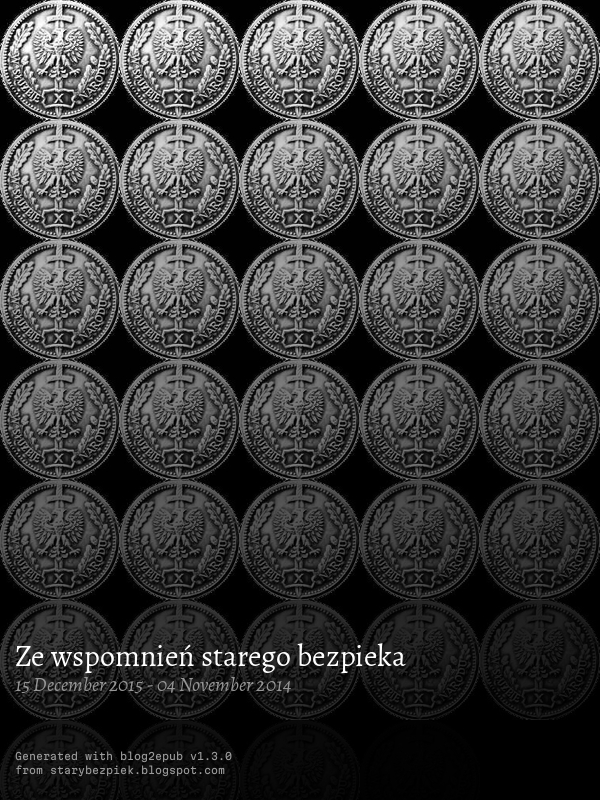
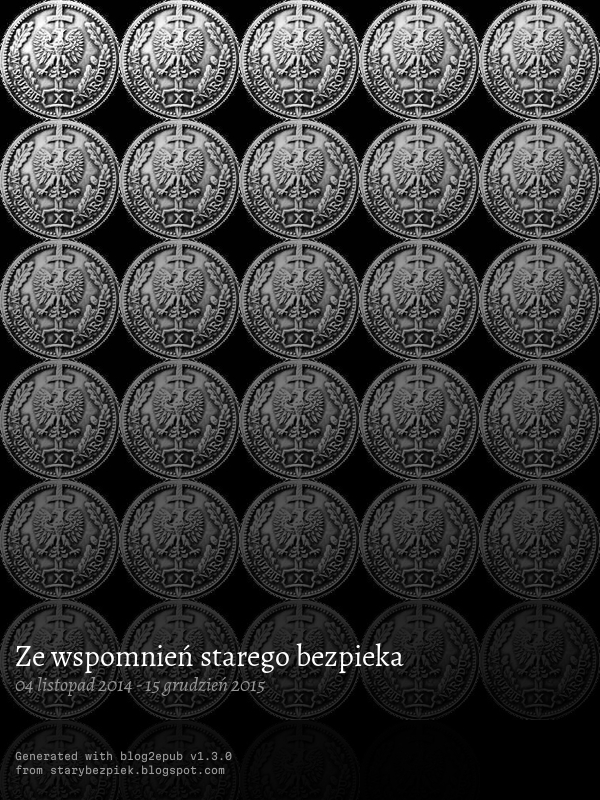
Ignore downloads and dates order fix

Changed region(s): [[0.03, 0.8125, 0.69, 0.875]]

diff --git a/blog2epub/crawlers/crawler.py b/blog2epub/crawlers/crawler.py
@@ -35,6 +35,8 @@ from blog2epub.models.book import BookModel, DirModel, ArticleModel, ImageModel
 
 
 class AbstractCrawler(ABC):
+    ignore_downloads = []
+
     @abstractmethod
     def crawl(self):
         pass
@@ -56,6 +58,8 @@ class Crawler(AbstractCrawler):
     )
     images_regex = r'<table[^>]*><tbody>[\s]*<tr><td[^>]*><a href="([^"]*)"[^>]*><img[^>]*></a></td></tr>[\s]*<tr><td class="tr-caption" style="[^"]*">([^<]*)'
     articles_regex = r"<h3 class=\'post-title entry-title\' itemprop=\'name\'>[\s]*<a href=\'([^\']*)\'>([^>^<]*)</a>[\s]*</h3>"
+
+    ignore_downloads = []
 
     def __init__(
         self,
@@ -396,6 +400,7 @@ class Downloader:
         self.force_download = crawler.force_download
         self.images_size = crawler.images_size
         self.images_quality = crawler.images_quality
+        self.ignore_downloads = crawler.ignore_downloads
         self.cookies = CookieJar()
         self.session = requests.session()
         self.headers = {}
@@ -424,7 +429,15 @@ class Downloader:
     def get_filepath(self, url):
         return os.path.join(self.dirs.html, self.get_urlhash(url) + ".html")
 
+    def _is_url_in_ignored(self, url) -> bool:
+        for search_rule in self.ignore_downloads:
+            if re.match(search_rule, url):
+                return True
+        return False
+
     def file_download(self, url: str, filepath: str) -> Optional[str]:
+        if self._is_url_in_ignored(url):
+            return None
         self.dirs.prepare_directories()
         try:
             response = self.session.get(url, cookies=self.cookies, headers=self.headers)
@@ -437,7 +450,10 @@ class Downloader:
         return contents
 
     def image_download(self, url: str, filepath: str) -> bool:
+        if self._is_url_in_ignored(url):
+            return None
         self.dirs.prepare_directories()
+        print(f"POBIERANIE: {url}")
         try:
             response = self.session.get(url, cookies=self.cookies, headers=self.headers)
         except requests.exceptions.ConnectionError:

diff --git a/blog2epub/common/book.py b/blog2epub/common/book.py
@@ -106,10 +106,10 @@ class Book:
         if self.end is None:
             return self.start.strftime("%d %B %Y")
         if self.start.strftime("%Y.%m") == self.end.strftime("%Y.%m"):
-            return self.end.strftime("%d") + "-" + self.start.strftime("%d %B %Y")
+            return self.start.strftime("%d") + "-" + self.end.strftime("%d %B %Y")
         if self.start.strftime("%Y.%m") == self.end.strftime("%Y.%m"):
-            return self.end.strftime("%d %B") + " - " + self.start.strftime("%d %B %Y")
-        return self.end.strftime("%d %B %Y") + " - " + self.start.strftime("%d %B %Y")
+            return self.start.strftime("%d %B") + " - " + self.end.strftime("%d %B %Y")
+        return self.start.strftime("%d %B %Y") + " - " + self.end.strftime("%d %B %Y")
 
     def update_file_name(self, file_name: Optional[str] = None):
         if file_name is None:
@@ -118,7 +118,7 @@ class Book:
                 start_date = self.start.strftime("%Y.%m.%d")
                 if self.end and self.start != self.end:
                     end_date = self.end.strftime("%Y.%m.%d")
-                    file_name = file_name + "_" + end_date + "-" + start_date
+                    file_name = file_name + "_" + start_date + "-" + end_date
                 else:
                     file_name = file_name + "_" + start_date
             file_name += ".epub"
@@ -238,7 +238,6 @@ class Book:
         for article in articles:
             article_dates.append(article.date)
         article_dates.sort()
-        print(article_dates)
         self.start = article_dates[0]
         self.end = article_dates[-1]
 

diff --git a/blog2epub/crawlers/blogspot.py b/blog2epub/crawlers/blogspot.py
@@ -11,3 +11,12 @@ class CrawlerBlogspot(Crawler):
     )
     images_regex = r'<table[^>]*><tbody>[\s]*<tr><td[^>]*><a href="([^"]*)"[^>]*><img[^>]*></a></td></tr>[\s]*<tr><td class="tr-caption" style="[^"]*">([^<]*)'
     articles_regex = r"<h3 class=\'post-title entry-title\' itemprop=\'name\'>[\s]*<a href=\'([^\']*)\'>([^>^<]*)</a>[\s]*</h3>"
+
+    ignore_downloads = [
+        r"https:\/\/zblogowani\.pl\/[a-z]+\/[0-9]+x[0-9]+\/[a-z]+\/[0-9]+\/btn\.png",
+        r"https:\/\/www.blogger.com\/img\/blogger_logo_[a-z]+_[0-9]+\.png",
+        r"https:\/\/resources.blogblog.com\/img\/[a-z0-9_]+.gif",
+        r"https:\/\/www.paypalobjects.com\/[a-zA-Z_]+\/i\/scr\/pixel.gif",
+        r"https:\/\/resources.blogblog.com\/img\/widgets\/[a-zA-Z0-9\-\.]+",
+        r"https:\/\/[a-zA-Z0-9\.\/\-\_]+icon[0-9]+_[a-z]+.gif",
+    ]

diff --git a/blog2epub/crawlers/wordpress.py b/blog2epub/crawlers/wordpress.py
@@ -22,6 +22,8 @@ class CrawlerWordpress(Crawler):
     images_regex = r'<table[^>]*><tbody>[\s]*<tr><td[^>]*><a href="([^"]*)"[^>]*><img[^>]*></a></td></tr>[\s]*<tr><td class="tr-caption" style="[^"]*">([^<]*)'
     articles_regex = r"<h3 class=\'post-title entry-title\' itemprop=\'name\'>[\s]*<a href=\'([^\']*)\'>([^>^<]*)</a>[\s]*</h3>"
 
+    ignore_downloads = []
+
     def __init__(self, **kwargs):
         super().__init__(**kwargs)
 

diff --git a/blog2epub/blog2epub_gui.py b/blog2epub/blog2epub_gui.py
@@ -440,6 +440,7 @@ class Blog2EpubKivyWindow(MDBoxLayout):
             self.articles_table, self._get_articles_rows()
         )
         self._update_tab_generate()
+        self.interface.print("Download completed.")
         # self.tabs.switch_tab("generate")  # TODO: make it working
 
     def _get_articles_to_save(self) -> List[ArticleModel]:
